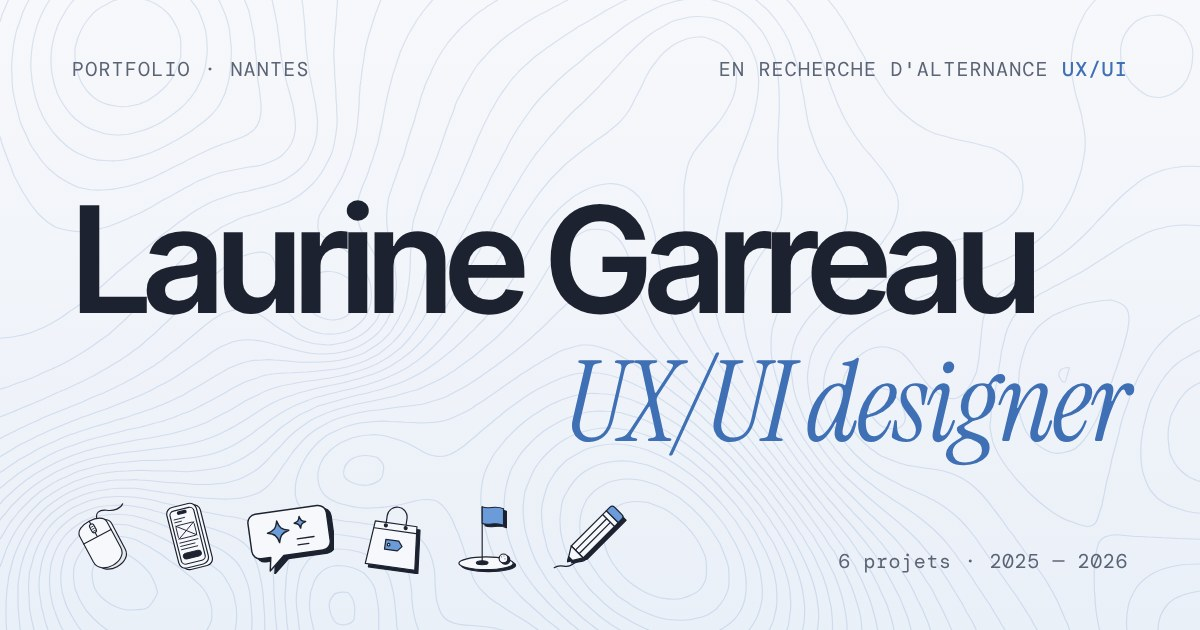
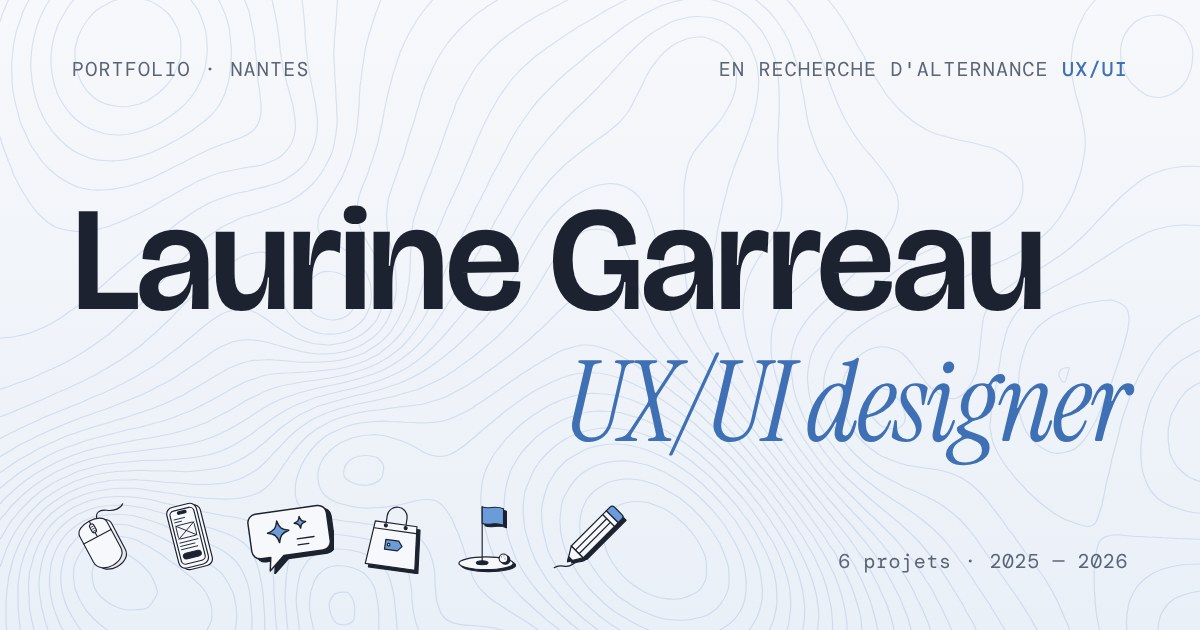
Typographie : Bricolage Grotesque remplace Inter Tight sur tout le site (et l'image d'aperçu)
Espacement des grands titres desserré pour cette police, taille du nom recalculée.

Claude-Session: https://claude.ai/code/session_015gFVjZmMqfLoLEgqRuMVH3

Changed region(s): [[0.4625, 0.3016, 0.8942, 0.5127], [0.0617, 0.3016, 0.4625, 0.5127]]

diff --git a/assets/css/style.css b/assets/css/style.css
@@ -22,7 +22,7 @@
   --gutter: clamp(16px, 3vw, 40px);
   --max: 1440px;
 
-  --f-sans: "Inter Tight", system-ui, sans-serif;
+  --f-sans: "Bricolage Grotesque", system-ui, sans-serif;
   --f-serif: "Instrument Serif", Georgia, serif;
   --f-mono: "DM Mono", ui-monospace, monospace; /* légendes, numéros, métadonnées */
   --ease: cubic-bezier(.22, .8, .2, 1);
@@ -58,7 +58,7 @@ button { font: inherit; color: inherit; }
 .display {
   font-family: var(--f-sans);
   font-weight: 500;
-  letter-spacing: -.04em;
+  letter-spacing: -.025em;
   line-height: 1;
   margin: 0;
 }
@@ -219,11 +219,11 @@ p strong, li strong { font-weight: 700; }
   container-type: inline-size; /* le titre se règle sur la largeur de la colonne, pas de la fenêtre */
 }
 .hero-title {
-  /* « Laurine Garreau » occupe toute la largeur de la colonne (≈ 6,4 em de long), sans dépasser un écran peu haut */
-  font-size: max(30px, min(calc(100cqw / 6.4), 24vh));
+  /* « Laurine Garreau » occupe toute la largeur de la colonne (≈ 6,6 em de long en Bricolage Grotesque), sans dépasser un écran peu haut */
+  font-size: max(30px, min(calc(100cqw / 6.6), 24vh));
   width: fit-content; margin-inline: auto; /* centré ; la 2e ligne, calée à droite, s'aligne sur la fin du nom */
   font-weight: 500;
-  letter-spacing: -.045em;
+  letter-spacing: -.02em; /* Bricolage Grotesque est déjà serrée en grand : un léger resserrement suffit */
   line-height: .98;
   position: relative;
   padding-top: .32em; /* place pour la souris et Figma au-dessus du nom */

diff --git a/index.html b/index.html
@@ -20,8 +20,8 @@
   <meta name="twitter:image" content="https://laurinegarreau.github.io/portfolio-laurine-garreau/assets/img/og-image.jpg">
   <link rel="preconnect" href="https://fonts.googleapis.com">
   <link rel="preconnect" href="https://fonts.gstatic.com" crossorigin>
-  <link href="https://fonts.googleapis.com/css2?family=DM+Mono:wght@400;500&family=Inter+Tight:wght@300..700&family=Instrument+Serif:ital@0;1&display=swap" rel="stylesheet">
-  <link rel="stylesheet" href="assets/css/style.css?v=202611080800">
+  <link href="https://fonts.googleapis.com/css2?family=DM+Mono:wght@400;500&family=Bricolage+Grotesque:opsz,wght@12..96,200..800&family=Instrument+Serif:ital@0;1&display=swap" rel="stylesheet">
+  <link rel="stylesheet" href="assets/css/style.css?v=202611081000">
   <!-- Active l'intro avant le premier affichage (évite un flash de la page finale) -->
   <!-- une seule fois par visite : en revenant d'une page projet, l'accueil s'affiche directement -->
   <script>try { if (!matchMedia('(prefers-reduced-motion: reduce)').matches && !sessionStorage.getItem('intro-vue')) document.documentElement.classList.add('intro-on'); } catch (e) {}</script>

diff --git a/assistant-metier.html b/assistant-metier.html
@@ -17,8 +17,8 @@
   <meta name="twitter:image" content="https://laurinegarreau.github.io/portfolio-laurine-garreau/assets/img/assistant-cover.webp">
   <link rel="preconnect" href="https://fonts.googleapis.com">
   <link rel="preconnect" href="https://fonts.gstatic.com" crossorigin>
-  <link href="https://fonts.googleapis.com/css2?family=DM+Mono:wght@400;500&family=Inter+Tight:wght@300..700&family=Instrument+Serif:ital@0;1&display=swap" rel="stylesheet">
-  <link rel="stylesheet" href="assets/css/style.css?v=202611080800">
+  <link href="https://fonts.googleapis.com/css2?family=DM+Mono:wght@400;500&family=Bricolage+Grotesque:opsz,wght@12..96,200..800&family=Instrument+Serif:ital@0;1&display=swap" rel="stylesheet">
+  <link rel="stylesheet" href="assets/css/style.css?v=202611081000">
 </head>
 <body>
 

diff --git a/module-import.html b/module-import.html
@@ -17,8 +17,8 @@
   <meta name="twitter:image" content="https://laurinegarreau.github.io/portfolio-laurine-garreau/assets/img/module-cover.webp">
   <link rel="preconnect" href="https://fonts.googleapis.com">
   <link rel="preconnect" href="https://fonts.gstatic.com" crossorigin>
-  <link href="https://fonts.googleapis.com/css2?family=DM+Mono:wght@400;500&family=Inter+Tight:wght@300..700&family=Instrument+Serif:ital@0;1&display=swap" rel="stylesheet">
-  <link rel="stylesheet" href="assets/css/style.css?v=202611080800">
+  <link href="https://fonts.googleapis.com/css2?family=DM+Mono:wght@400;500&family=Bricolage+Grotesque:opsz,wght@12..96,200..800&family=Instrument+Serif:ital@0;1&display=swap" rel="stylesheet">
+  <link rel="stylesheet" href="assets/css/style.css?v=202611081000">
 </head>
 <body>
 

diff --git a/splits.html b/splits.html
@@ -17,8 +17,8 @@
   <meta name="twitter:image" content="https://laurinegarreau.github.io/portfolio-laurine-garreau/assets/img/splits-cover.webp">
   <link rel="preconnect" href="https://fonts.googleapis.com">
   <link rel="preconnect" href="https://fonts.gstatic.com" crossorigin>
-  <link href="https://fonts.googleapis.com/css2?family=DM+Mono:wght@400;500&family=Inter+Tight:wght@300..700&family=Instrument+Serif:ital@0;1&display=swap" rel="stylesheet">
-  <link rel="stylesheet" href="assets/css/style.css?v=202611080800">
+  <link href="https://fonts.googleapis.com/css2?family=DM+Mono:wght@400;500&family=Bricolage+Grotesque:opsz,wght@12..96,200..800&family=Instrument+Serif:ital@0;1&display=swap" rel="stylesheet">
+  <link rel="stylesheet" href="assets/css/style.css?v=202611081000">
 </head>
 <body>
 

diff --git a/decathlon.html b/decathlon.html
@@ -17,8 +17,8 @@
   <meta name="twitter:image" content="https://laurinegarreau.github.io/portfolio-laurine-garreau/assets/img/deca-cover.webp">
   <link rel="preconnect" href="https://fonts.googleapis.com">
   <link rel="preconnect" href="https://fonts.gstatic.com" crossorigin>
-  <link href="https://fonts.googleapis.com/css2?family=DM+Mono:wght@400;500&family=Inter+Tight:wght@300..700&family=Instrument+Serif:ital@0;1&display=swap" rel="stylesheet">
-  <link rel="stylesheet" href="assets/css/style.css?v=202611080800">
+  <link href="https://fonts.googleapis.com/css2?family=DM+Mono:wght@400;500&family=Bricolage+Grotesque:opsz,wght@12..96,200..800&family=Instrument+Serif:ital@0;1&display=swap" rel="stylesheet">
+  <link rel="stylesheet" href="assets/css/style.css?v=202611081000">
 </head>
 <body>
 

diff --git a/minigolf.html b/minigolf.html
@@ -17,8 +17,8 @@
   <meta name="twitter:image" content="https://laurinegarreau.github.io/portfolio-laurine-garreau/assets/img/golf-cover.webp">
   <link rel="preconnect" href="https://fonts.googleapis.com">
   <link rel="preconnect" href="https://fonts.gstatic.com" crossorigin>
-  <link href="https://fonts.googleapis.com/css2?family=DM+Mono:wght@400;500&family=Inter+Tight:wght@300..700&family=Instrument+Serif:ital@0;1&display=swap" rel="stylesheet">
-  <link rel="stylesheet" href="assets/css/style.css?v=202611080800">
+  <link href="https://fonts.googleapis.com/css2?family=DM+Mono:wght@400;500&family=Bricolage+Grotesque:opsz,wght@12..96,200..800&family=Instrument+Serif:ital@0;1&display=swap" rel="stylesheet">
+  <link rel="stylesheet" href="assets/css/style.css?v=202611081000">
 </head>
 <body>
 

diff --git a/laboratoire.html b/laboratoire.html
@@ -17,8 +17,8 @@
   <meta name="twitter:image" content="https://laurinegarreau.github.io/portfolio-laurine-garreau/assets/img/labo-room.webp">
   <link rel="preconnect" href="https://fonts.googleapis.com">
   <link rel="preconnect" href="https://fonts.gstatic.com" crossorigin>
-  <link href="https://fonts.googleapis.com/css2?family=DM+Mono:wght@400;500&family=Inter+Tight:wght@300..700&family=Instrument+Serif:ital@0;1&display=swap" rel="stylesheet">
-  <link rel="stylesheet" href="assets/css/style.css?v=202611080800">
+  <link href="https://fonts.googleapis.com/css2?family=DM+Mono:wght@400;500&family=Bricolage+Grotesque:opsz,wght@12..96,200..800&family=Instrument+Serif:ital@0;1&display=swap" rel="stylesheet">
+  <link rel="stylesheet" href="assets/css/style.css?v=202611081000">
 </head>
 <body>
 
